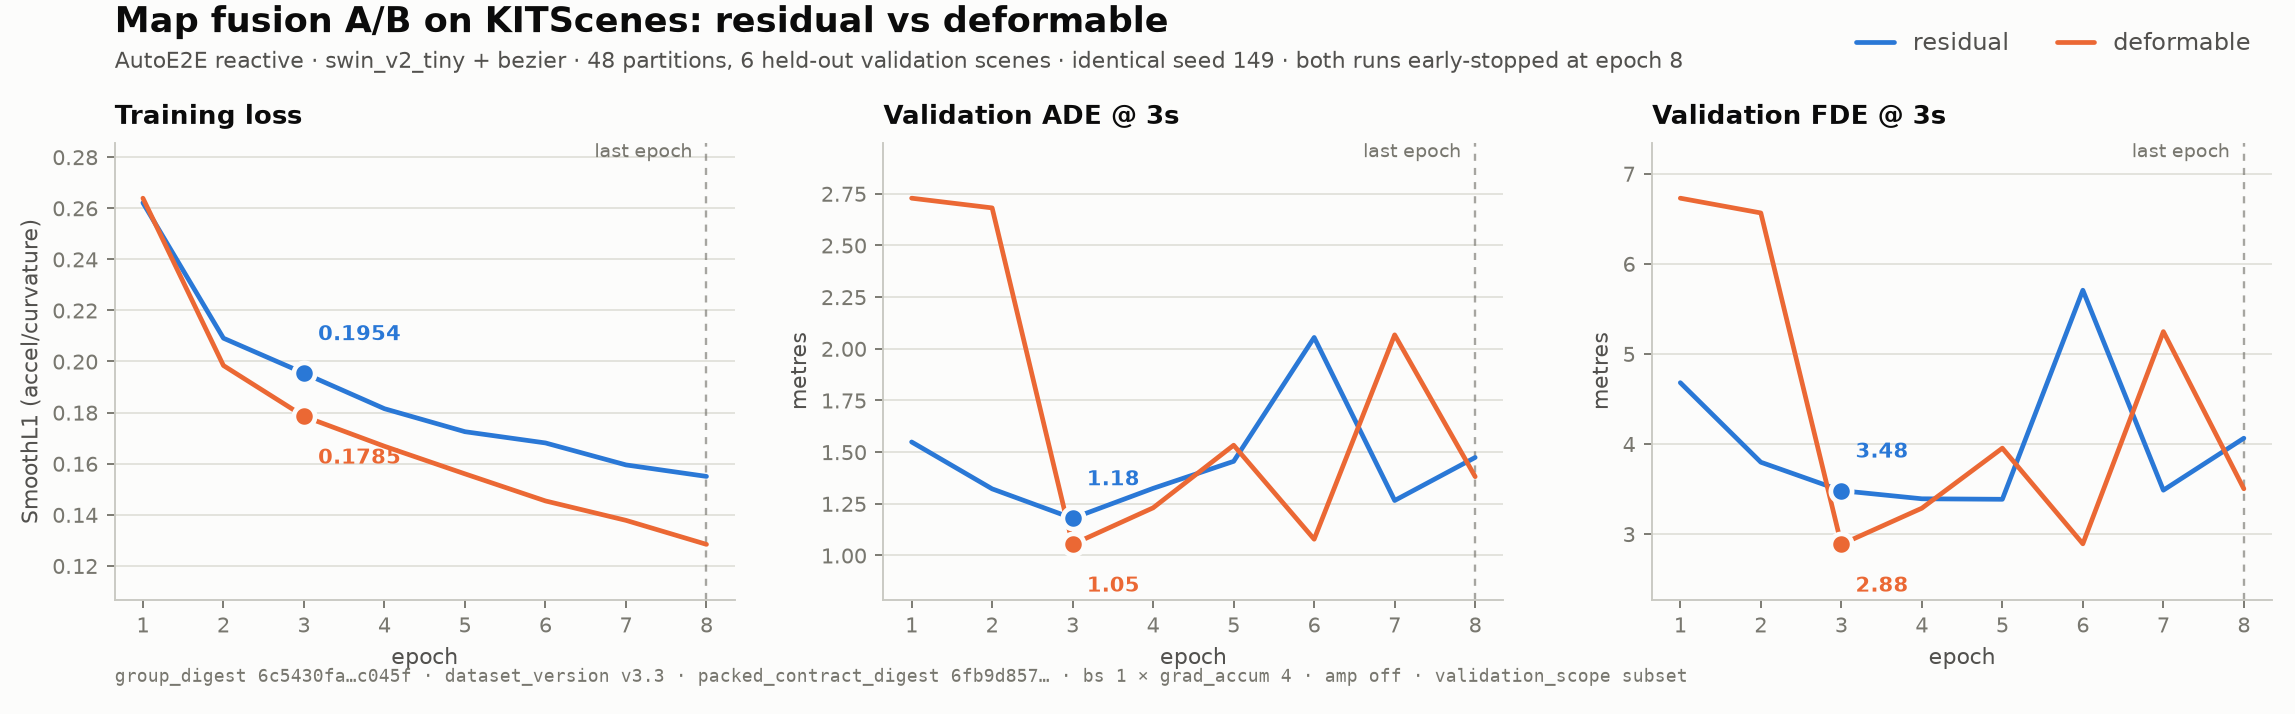
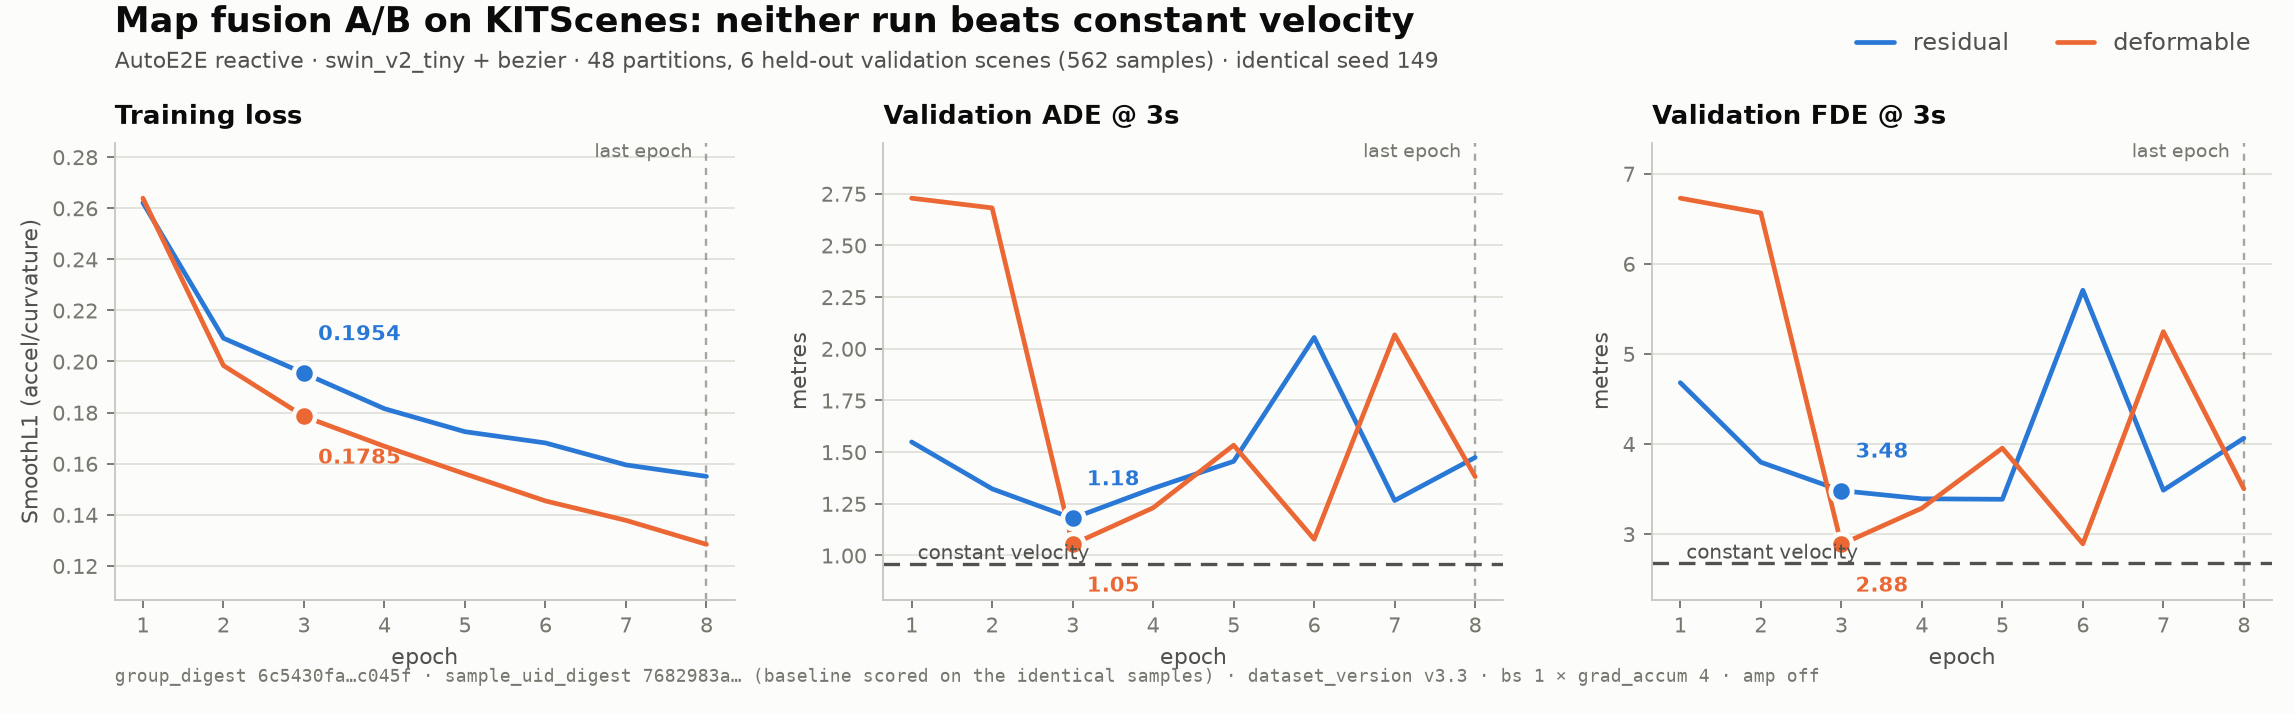
feat(experiments): score training-free baselines on a finished run's split
Adds Tools/experiments/run_baseline.py, which reads the validation group UIDs
out of a run's metadata.json, rebuilds the loader train_il used, and scores a
constant-velocity stub through the same _evaluate_open_loop path. It verifies
that the resulting sample_uid_digest equals the training run's and refuses to
present the comparison as valid if it does not.

Result on this run's 562 validation samples (digest 7682983a…, an exact match):

    constant velocity   ADE@3s 0.958 m   FDE@3s 2.673 m
    deformable (best)   ADE@3s 1.053 m   FDE@3s 2.885 m
    residual (best)     ADE@3s 1.179 m   FDE@3s 3.481 m

Neither trained model beats the no-perception baseline. Updates the chart, the
plan and the findings accordingly, and adds a --baseline-ade/--baseline-fde
reference line to plot_runs.py.

diff --git a/Tools/experiments/run_baseline.py b/Tools/experiments/run_baseline.py
@@ -1,0 +1,160 @@
+"""Score training-free baselines on the exact validation split of a finished run.
+
+Answers the question `Model/evaluation/baselines.py` poses: does the trained
+model beat ego-status extrapolation at all? If it barely does, perception is not
+contributing yet.
+
+Comparability is enforced, not assumed. The validation group UIDs are read from
+the run's own metadata.json and passed to the same loader factory `train_il`
+uses, and scoring goes through the same `_evaluate_open_loop`. The script then
+checks that the resulting `sample_uid_digest` equals the one the training run
+recorded — if it differs, the numbers are not on the same samples and the script
+says so rather than printing a misleading comparison.
+
+The baseline is expressed as a stub module in the model's place, so the
+prediction takes the identical integration and metric path as a real checkpoint.
+
+Usage:
+    python Tools/experiments/run_baseline.py \
+        --metadata /path/to/metadata.json --packed /path/to/packed
+"""
+
+import argparse
+import json
+import os
+import pathlib
+import sys
+
+REPO = pathlib.Path(__file__).resolve().parents[2]
+
+os.environ.setdefault("AUTO_E2E_CHECKPOINT_BUCKET", "autoe2e-checkpoints")
+os.environ.setdefault("AWS_ENDPOINT_URL", "http://localhost:9000")
+os.environ.setdefault("AWS_ACCESS_KEY_ID", "autoe2e")
+os.environ.setdefault("AWS_SECRET_ACCESS_KEY", "autoe2e123")
+os.environ.setdefault("AWS_DEFAULT_REGION", "us-east-1")
+
+sys.path.insert(0, str(REPO / "Model"))
+sys.path.insert(0, str(REPO))
+
+import torch  # noqa: E402
+import torch.nn as nn  # noqa: E402
+
+from data_parsing.pre_extracted import make_multi_dataset_loader  # noqa: E402
+from navigation.geometry import DEFAULT_NAVIGATION_GEOMETRY  # noqa: E402
+from Platform.pipelines.workflows import _evaluate_open_loop  # noqa: E402
+from training.dataset_policy import training_policy_for_dataset  # noqa: E402
+
+AUTO_E2E_TIMESTEPS = 64
+NUM_SIGNALS = 2
+
+
+class ConstantVelocity(nn.Module):
+    """accel = 0, curv = 0 — maintain speed, drive straight.
+
+    Mirrors evaluation.baselines.constant_velocity_baseline in the module shape
+    _evaluate_open_loop expects, so the zeros travel the same integration path
+    as a checkpoint's output.
+    """
+
+    def forward(self, visual, map_context, visual_history, egomotion_history, **kw):
+        b = visual.shape[0]
+        return torch.zeros(
+            b, AUTO_E2E_TIMESTEPS * NUM_SIGNALS,
+            device=visual.device, dtype=torch.float32,
+        )
+
+
+def main():
+    ap = argparse.ArgumentParser()
+    ap.add_argument("--metadata", required=True, help="metadata.json of a finished run")
+    ap.add_argument("--packed", required=True, help="directory of packed partitions")
+    ap.add_argument("--dataset", default="KIT-MRT/KITScenes-Multimodal")
+    ap.add_argument("--validation-scope", default="subset")
+    ap.add_argument("--output", default=None)
+    args = ap.parse_args()
+
+    meta = json.loads(pathlib.Path(args.metadata).read_text())
+    val = meta["validation"]
+    group_uids = list(val["validation_group_uids"])
+    expected_sample_digest = val["validation_sample_uid_digest"]
+
+    print(f"validation groups   {len(group_uids)}")
+    print(f"group_digest        {val['validation_group_uid_digest']}")
+    print(f"expected samples    {val['validation_sample_count']}\n")
+
+    packed = pathlib.Path(args.packed)
+    # Skip empty partitions the way train_il does (its skipped_empty count):
+    # a scene shorter than 129 usable frames packs a manifest but no shard, and
+    # the loader raises FileNotFoundError on the missing .tar.
+    shard_dirs = []
+    skipped_empty = 0
+    for p in sorted(packed.iterdir()):
+        manifest = p / "manifest.json"
+        if not manifest.is_file():
+            continue
+        if json.loads(manifest.read_text()).get("total_samples", 0) <= 0:
+            skipped_empty += 1
+            continue
+        shard_dirs.append(str(p))
+    print(f"partitions          {len(shard_dirs)} (skipped_empty={skipped_empty})")
+
+    device = torch.device("cuda" if torch.cuda.is_available() else "cpu")
+    training_policy = training_policy_for_dataset(
+        args.dataset, validation_scope=args.validation_scope
+    )
+
+    loader = make_multi_dataset_loader(
+        shard_dirs,
+        batch_size=8,
+        num_workers=1,
+        shuffle=0,
+        pin_memory=(device.type == "cuda"),
+        split="val",
+        val_fraction=float(val["val_fraction"]),
+        validation_group_uids=group_uids,
+        max_active_loaders=1,
+        prefetch_factor=1,
+        decode_future_frames=False,
+    )
+
+    result = _evaluate_open_loop(
+        ConstantVelocity().to(device),
+        loader,
+        device,
+        training_policy=training_policy,
+        navigation_geometry=DEFAULT_NAVIGATION_GEOMETRY,
+    )
+
+    same = result["sample_uid_digest"] == expected_sample_digest
+    print(f"samples scored      {result['sample_count']}")
+    print(f"sample_uid_digest   {result['sample_uid_digest']}")
+    print(f"matches the run     {'YES' if same else 'NO'}\n")
+
+    print("constant-velocity baseline (accel=0, curv=0)")
+    for label, h in result["horizons"].items():
+        print(f"  ADE@{label:<3} {h['ade']:.4f} m    FDE@{label:<3} {h['fde']:.4f} m")
+
+    if not same:
+        print(
+            "\nWARNING: the scored samples differ from the training run's. "
+            "These numbers are NOT comparable with that run's ADE/FDE."
+        )
+
+    payload = {
+        "baseline": "constant_velocity",
+        "sample_count": result["sample_count"],
+        "sample_uid_digest": result["sample_uid_digest"],
+        "matches_run_validation": same,
+        "group_digest": val["validation_group_uid_digest"],
+        "ade_3s": result["ade"],
+        "fde_3s": result["fde"],
+        "horizons": result["horizons"],
+    }
+    out = pathlib.Path(args.output or (packed.parent / "results" / "baseline_constant_velocity.json"))
+    out.parent.mkdir(parents=True, exist_ok=True)
+    out.write_text(json.dumps(payload, indent=2))
+    print(f"\nwrote {out}")
+
+
+if __name__ == "__main__":
+    main()

diff --git a/Tools/experiments/plot_runs.py b/Tools/experiments/plot_runs.py
@@ -75,6 +75,11 @@ def main():
     ap.add_argument("--title", default="AutoE2E run comparison")
     ap.add_argument("--subtitle", default="")
     ap.add_argument("--provenance", default="", help="digest line printed at the bottom")
+    # A training-free reference matters more than the gap between two runs: if a
+    # model does not clear constant-velocity, perception is not contributing.
+    ap.add_argument("--baseline-ade", type=float, default=None)
+    ap.add_argument("--baseline-fde", type=float, default=None)
+    ap.add_argument("--baseline-label", default="constant velocity")
     args = ap.parse_args()
 
     if len(args.logs) > len(SERIES_COLORS):
@@ -125,6 +130,15 @@ def main():
                 vfmt.format(r[key][bi]), (r["epochs"][bi], r[key][bi]),
                 textcoords="offset points", xytext=(6, dy), ha="left",
                 fontsize=9, fontweight="bold", color=r["color"], zorder=5,
+            )
+
+        baseline = {"ade": args.baseline_ade, "fde": args.baseline_fde}.get(key)
+        if baseline is not None:
+            ax.axhline(baseline, color=INK_2, linewidth=1.4,
+                       linestyle=(0, (5, 3)), zorder=2)
+            ax.text(
+                runs[labels[0]]["epochs"][0], baseline, f" {args.baseline_label}",
+                va="bottom", ha="left", fontsize=8.5, color=INK_2, zorder=5,
             )
 
         last = max(r["epochs"][-1] for r in runs.values())

diff --git a/SESSION_FINDINGS.md b/SESSION_FINDINGS.md
@@ -54,11 +54,21 @@ batch 1×4, amp off, subset scope. Both early-stopped at epoch 8, best at epoch 
   training loss 0.26→0.13 while validation ADE flatlines. At 48 scenes the
   limiting factor is data quantity, not architecture. This matches the WG note
   *"network quality depends on input data quality, not just architecture changes"*.
-- **C3 — Our number may not beat a trivial baseline.** PR #189 reports
-  constant-velocity at **0.883 m ADE@3s** with no perception; our best is 1.053 m.
-  Different split, so not directly comparable — but `evaluation/baselines.py`
-  states the test: *"if the model barely beats constant-velocity, perception isn't
-  contributing"*. **Measure it on our own split before reporting.**
+- **C3 — Neither trained model beats a constant-velocity baseline.** Measured on
+  the identical 562 samples (`sample_uid_digest 7682983a…` matches the training
+  run's exactly), a no-perception baseline of `accel=0, curv=0` scores:
+
+  | | ADE@3s | FDE@3s |
+  |---|---|---|
+  | **constant velocity** | **0.958 m** | **2.673 m** |
+  | deformable (best) | 1.053 m (+9.9%) | 2.885 m (+7.9%) |
+  | residual (best) | 1.179 m (+23.1%) | 3.481 m (+30.2%) |
+
+  `evaluation/baselines.py` states the test: *"if the model barely beats
+  constant-velocity, perception isn't helping yet"*. Ours do not beat it at all.
+  Consistent with PR #189's 0.883 m on a different split, and with every ADE
+  posted to the thread so far (1.16 m, 2.14 m, 3.62 m) — **no reported run has
+  cleared the trivial baseline.**
 
 ## D. Environment traps
 
@@ -108,8 +118,9 @@ and crashes against the repo's numpy 2.2.6.
 
 ## G. Next actions, in order
 
-1. **Constant-velocity baseline on our `group_digest`** — decides whether §C is a
-   result at all. `constant_velocity_baseline()` already exists.
+1. ~~Constant-velocity baseline~~ — **done, and it changes the headline**: neither
+   run clears it (C3). The next question is *why* perception is not contributing,
+   not which fusion is better.
 2. **Narrow and rebase the harness PR** (E).
 3. **Second seed per fusion** — without it, C1 is not publishable.
 4. **More data** (150–200 scenes) — C2 says this is the real lever.

diff --git a/TRAINING_PLAN.md b/TRAINING_PLAN.md
@@ -197,16 +197,31 @@ costs 17% throughput.
 while validation ADE does not improve — identically under both fusions. At 48
 scenes the limiting factor is data quantity, not architecture.
 
-### The result that needs checking first
+### Neither run beats a constant-velocity baseline
 
-PR #189 reports a **constant-velocity baseline at 0.883 m ADE@3s** — no
-perception at all. Our best trained model is 1.053 m. On a different split
-(585/65, 4,049 validation samples), so not directly comparable — but
-`Model/evaluation/baselines.py` says exactly why it matters: *"if the model
-barely beats constant-velocity, perception isn't contributing"*.
+Scored on the **identical 562 samples** — `sample_uid_digest 7682983a…` matches
+the training run's exactly, so this is not an approximate comparison:
 
-**Measure `constant_velocity_baseline()` on our own `group_digest` before
-reporting anything.** Until then the 1.053 m has no reference point.
+| | ADE@3s | FDE@3s |
+|---|---|---|
+| **constant velocity** (accel=0, curv=0) | **0.958 m** | **2.673 m** |
+| deformable (best) | 1.053 m (+9.9%) | 2.885 m (+7.9%) |
+| residual (best) | 1.179 m (+23.1%) | 3.481 m (+30.2%) |
+
+`Model/evaluation/baselines.py` states the test: *"if the model barely beats
+constant-velocity, perception isn't helping yet"*. Ours do not beat it at all.
+
+This is consistent with PR #189 (0.883 m on a different split) and with every
+ADE posted to the thread (1.16 m, 2.14 m, 3.62 m): **no reported run has yet
+cleared the trivial baseline.** The open question is therefore not which fusion
+is better but why the camera and map inputs are not contributing.
+
+Reproduce with:
+
+```bash
+python Tools/experiments/run_baseline.py \
+    --metadata /tmp/train/metadata.json --packed /path/to/packed
+```
 
 ---
 
